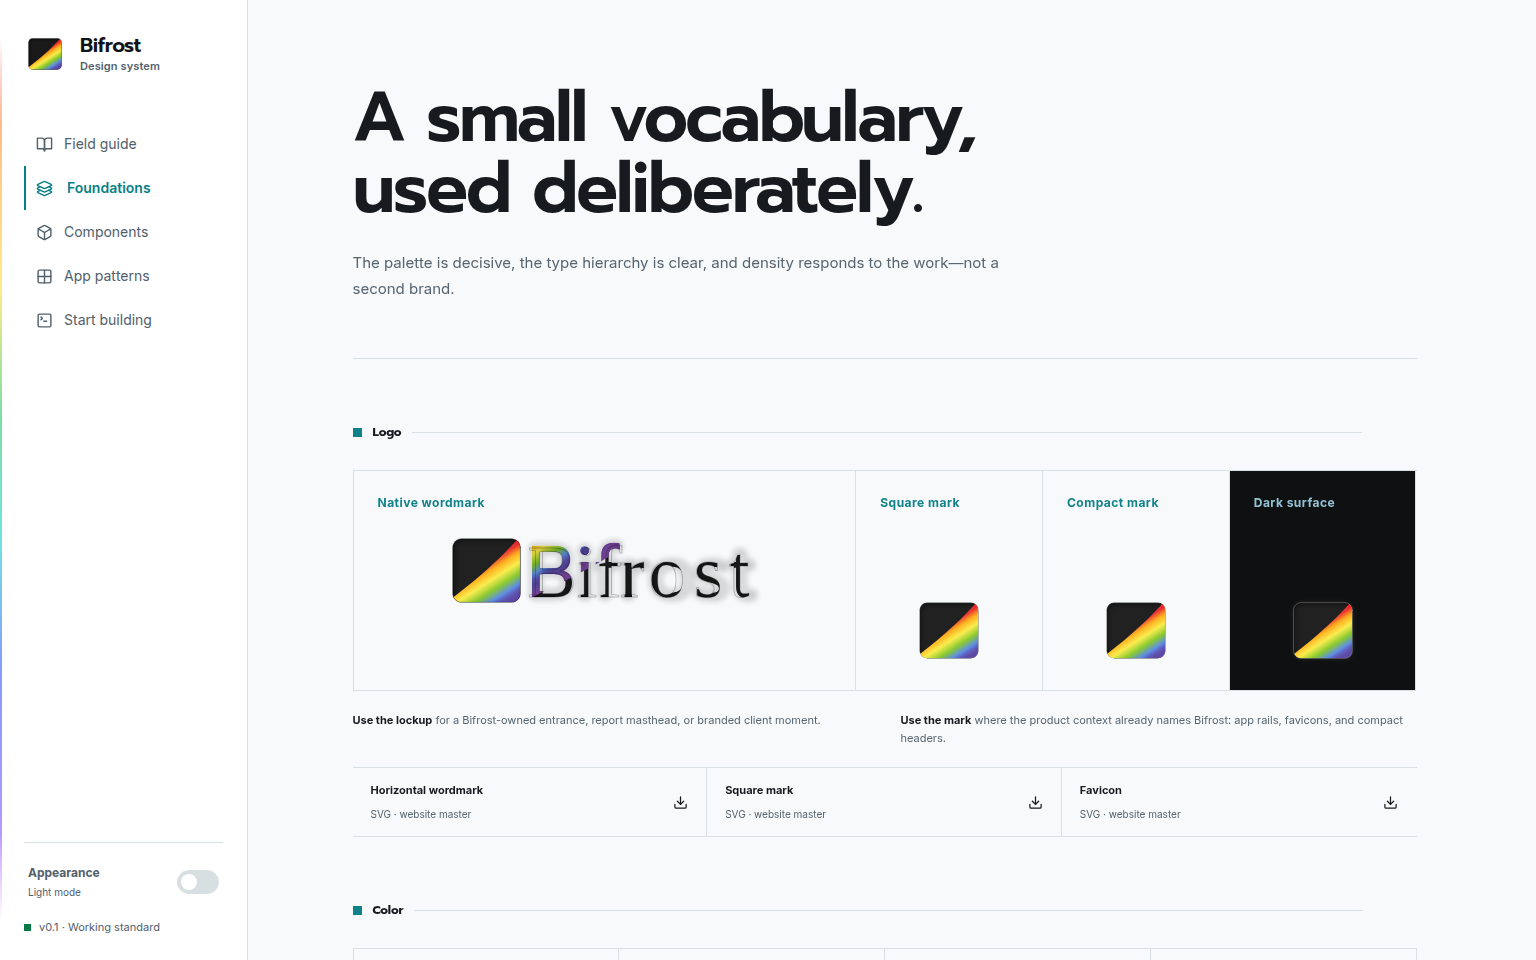
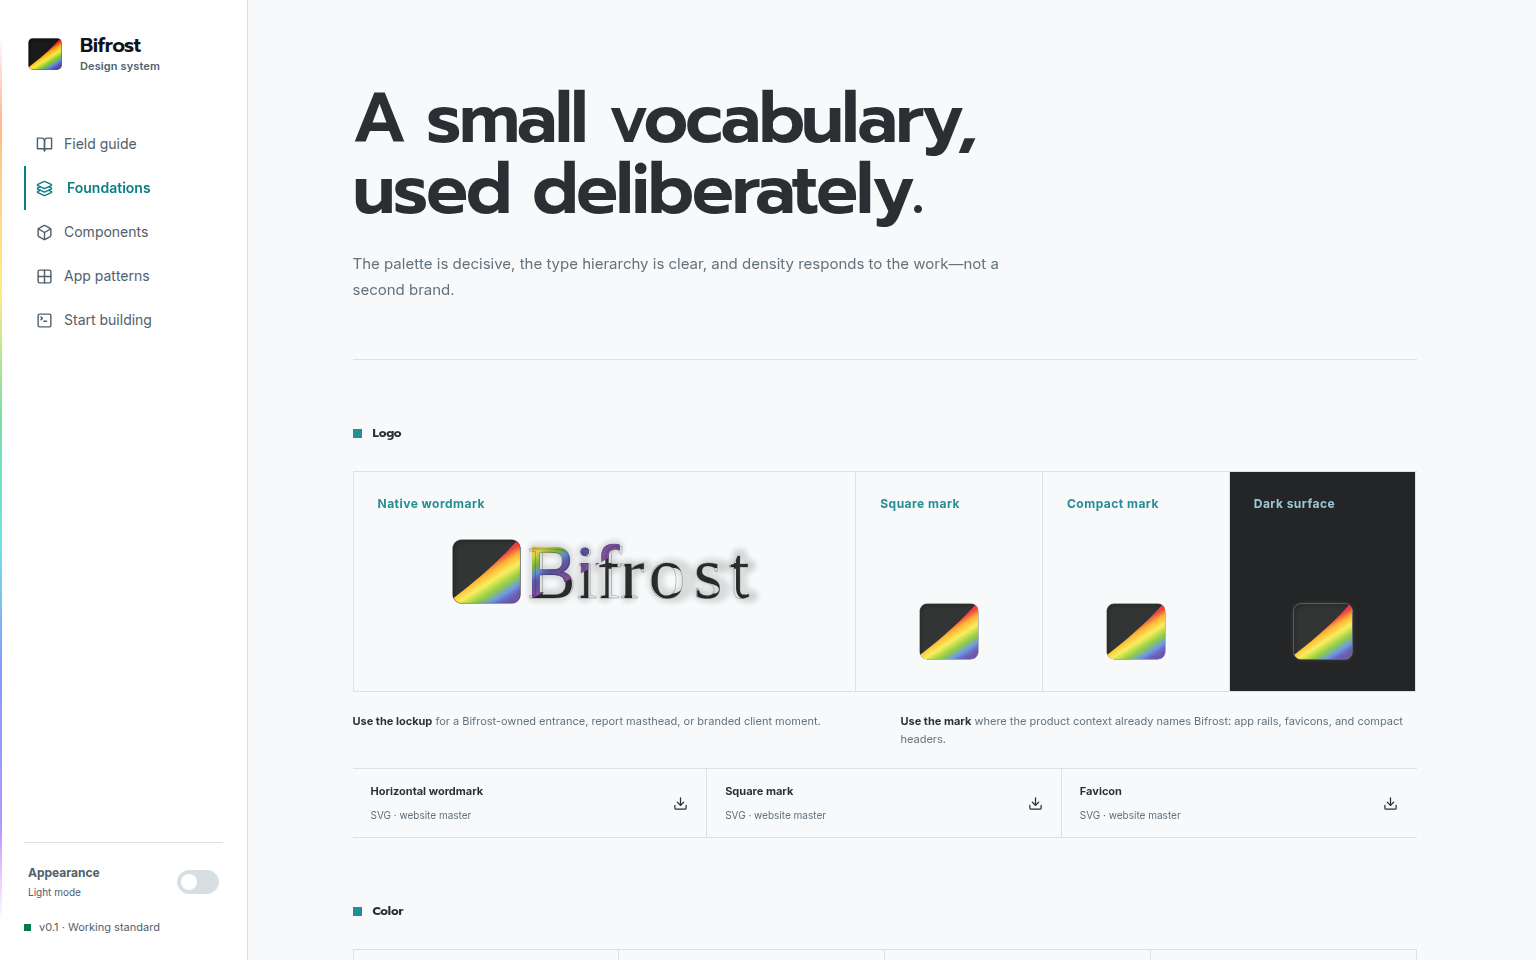
fix: harden dropdown overlays and wordmark themes

diff --git a/apps/bifrost-design-system/src/design-system/BfCombobox.tsx b/apps/bifrost-design-system/src/design-system/BfCombobox.tsx
@@ -1,12 +1,16 @@
 import {
   useEffect,
   useId,
+  useLayoutEffect,
   useMemo,
   useRef,
   useState,
+  type CSSProperties,
   type KeyboardEvent,
   type ReactNode,
+  type RefObject,
 } from "react";
+import { createPortal } from "react-dom";
 import { Check, ChevronDown, LoaderCircle, Search, X } from "lucide-react";
 import "./components.css";
 
@@ -85,6 +89,85 @@ function OptionContent({ option, selected }: { option: BfComboboxOption; selecte
   );
 }
 
+interface ViewportPopoverProps {
+  anchorRef: RefObject<HTMLElement>;
+  popoverRef: RefObject<HTMLDivElement>;
+  children: ReactNode;
+}
+
+interface PopoverPosition {
+  placement: "top" | "bottom";
+  left: number;
+  top?: number;
+  bottom?: number;
+  width: number;
+  maxHeight: number;
+}
+
+function ViewportPopover({ anchorRef, popoverRef, children }: ViewportPopoverProps) {
+  const [position, setPosition] = useState<PopoverPosition>();
+
+  useLayoutEffect(() => {
+    const positionPopover = () => {
+      const anchor = anchorRef.current;
+      if (!anchor) return;
+
+      const rect = anchor.getBoundingClientRect();
+      const viewportMargin = 8;
+      const gap = 6;
+      const width = Math.min(Math.max(rect.width, 260), window.innerWidth - viewportMargin * 2);
+      const left = Math.min(
+        Math.max(rect.left, viewportMargin),
+        Math.max(viewportMargin, window.innerWidth - width - viewportMargin),
+      );
+      const spaceBelow = window.innerHeight - rect.bottom - viewportMargin;
+      const spaceAbove = rect.top - viewportMargin;
+      const placement = spaceBelow >= 220 || spaceBelow >= spaceAbove ? "bottom" : "top";
+      const availableHeight = Math.max(112, (placement === "bottom" ? spaceBelow : spaceAbove) - gap);
+
+      setPosition({
+        placement,
+        left,
+        top: placement === "bottom" ? rect.bottom + gap : undefined,
+        bottom: placement === "top" ? window.innerHeight - rect.top + gap : undefined,
+        width,
+        maxHeight: availableHeight,
+      });
+    };
+
+    positionPopover();
+    window.addEventListener("resize", positionPopover);
+    window.addEventListener("scroll", positionPopover, true);
+    return () => {
+      window.removeEventListener("resize", positionPopover);
+      window.removeEventListener("scroll", positionPopover, true);
+    };
+  }, [anchorRef]);
+
+  if (typeof document === "undefined") return null;
+
+  const style = position ? ({
+    left: position.left,
+    top: position.top,
+    bottom: position.bottom,
+    width: position.width,
+    maxHeight: position.maxHeight,
+    "--bds-popover-max-height": `${position.maxHeight}px`,
+  } as CSSProperties) : undefined;
+
+  return createPortal(
+    <div
+      ref={popoverRef}
+      className="bds-combobox__popover"
+      data-placement={position?.placement}
+      style={style}
+    >
+      {children}
+    </div>,
+    document.body,
+  );
+}
+
 export function BfCombobox({
   options,
   value,
@@ -107,6 +190,8 @@ export function BfCombobox({
   const listboxId = `${id}-listbox`;
   const messageId = `${id}-message`;
   const wrapperRef = useRef<HTMLDivElement>(null);
+  const triggerRef = useRef<HTMLButtonElement>(null);
+  const popoverRef = useRef<HTMLDivElement>(null);
   const searchRef = useRef<HTMLInputElement>(null);
   const [open, setOpen] = useState(false);
   const [query, setQuery] = useState("");
@@ -117,7 +202,8 @@ export function BfCombobox({
   useEffect(() => {
     if (!open) return;
     const closeOnOutsidePress = (event: MouseEvent) => {
-      if (!wrapperRef.current?.contains(event.target as Node)) setOpen(false);
+      const target = event.target as Node;
+      if (!wrapperRef.current?.contains(target) && !popoverRef.current?.contains(target)) setOpen(false);
     };
     document.addEventListener("mousedown", closeOnOutsidePress);
     return () => document.removeEventListener("mousedown", closeOnOutsidePress);
@@ -163,6 +249,7 @@ export function BfCombobox({
       <label className="bds-field__label" id={`${id}-label`} htmlFor={id}>{label}</label>
       {name && <input type="hidden" name={name} value={value ?? ""} />}
       <button
+        ref={triggerRef}
         id={id}
         type="button"
         className="bds-combobox__trigger"
@@ -193,7 +280,7 @@ export function BfCombobox({
         <button type="button" aria-label={`Clear ${label}`} className="bds-combobox__clear" onClick={() => onValueChange("")}><X size={14} /></button>
       )}
       {open && (
-        <div className="bds-combobox__popover">
+        <ViewportPopover anchorRef={triggerRef} popoverRef={popoverRef}>
           <div className="bds-combobox__search">
             <Search size={15} aria-hidden="true" />
             <input
@@ -226,7 +313,7 @@ export function BfCombobox({
               ><OptionContent option={option} selected={option.value === value} /></button>
             )) : <p className="bds-combobox__empty">{emptyText}</p>}
           </div>
-        </div>
+        </ViewportPopover>
       )}
       <FieldMessage id={messageId} error={error} hint={hint} />
     </div>
@@ -257,6 +344,8 @@ export function BfMultiSelect({
   const listboxId = `${id}-listbox`;
   const messageId = `${id}-message`;
   const wrapperRef = useRef<HTMLDivElement>(null);
+  const triggerRef = useRef<HTMLDivElement>(null);
+  const popoverRef = useRef<HTMLDivElement>(null);
   const searchRef = useRef<HTMLInputElement>(null);
   const [open, setOpen] = useState(false);
   const [query, setQuery] = useState("");
@@ -270,7 +359,8 @@ export function BfMultiSelect({
   useEffect(() => {
     if (!open) return;
     const closeOnOutsidePress = (event: MouseEvent) => {
-      if (!wrapperRef.current?.contains(event.target as Node)) setOpen(false);
+      const target = event.target as Node;
+      if (!wrapperRef.current?.contains(target) && !popoverRef.current?.contains(target)) setOpen(false);
     };
     document.addEventListener("mousedown", closeOnOutsidePress);
     return () => document.removeEventListener("mousedown", closeOnOutsidePress);
@@ -321,6 +411,7 @@ export function BfMultiSelect({
       <label className="bds-field__label" id={`${id}-label`} htmlFor={id}>{label}</label>
       {name && value.map((selectedValue) => <input key={selectedValue} type="hidden" name={name} value={selectedValue} />)}
       <div
+        ref={triggerRef}
         id={id}
         className="bds-combobox__trigger"
         role="combobox"
@@ -362,7 +453,7 @@ export function BfMultiSelect({
         <ChevronDown size={15} aria-hidden="true" />
       </div>
       {open && (
-        <div className="bds-combobox__popover">
+        <ViewportPopover anchorRef={triggerRef} popoverRef={popoverRef}>
           <div className="bds-combobox__search">
             <Search size={15} aria-hidden="true" />
             <input
@@ -405,7 +496,7 @@ export function BfMultiSelect({
               );
             }) : <p className="bds-combobox__empty">{emptyText}</p>}
           </div>
-        </div>
+        </ViewportPopover>
       )}
       <FieldMessage id={messageId} error={error} hint={hint} />
     </div>

diff --git a/apps/bifrost-design-system/src/design-system/components.css b/apps/bifrost-design-system/src/design-system/components.css
@@ -104,10 +104,10 @@
 .bds-combobox__clear { display: inline-grid; place-items: center; width: 24px; height: 24px; border-radius: var(--bf-radius-control); cursor: pointer; }
 .bds-combobox__clear:hover { background: var(--bf-cool); color: var(--bf-ink); }
 .bds-combobox > .bds-combobox__clear { position: absolute; top: 27px; right: 34px; z-index: 1; padding: 0; border: 0; background: transparent; color: var(--bf-muted); }
-.bds-combobox__popover { position: absolute; top: calc(100% + 6px); left: 0; z-index: 80; width: max(100%, 260px); overflow: hidden; border: 1px solid var(--bf-line); border-radius: var(--bf-radius-surface); background: var(--bf-paper); box-shadow: var(--bf-shadow-float); animation: bds-component-in var(--bf-motion-disclosure) var(--bf-ease-out) both; }
+.bds-combobox__popover { position: fixed; z-index: 1000; display: flex; flex-direction: column; min-width: 0; max-width: calc(100vw - 16px); overflow: hidden; border: 1px solid var(--bf-line); border-radius: var(--bf-radius-surface); background: var(--bf-paper); box-shadow: var(--bf-shadow-float); animation: bds-component-in var(--bf-motion-disclosure) var(--bf-ease-out) both; }
 .bds-combobox__search { display: grid; grid-template-columns: 20px minmax(0, 1fr); align-items: center; gap: 7px; min-height: 43px; padding: 0 11px; border-bottom: 1px solid var(--bf-line); color: var(--bf-muted); }
 .bds-combobox__search input { min-height: 40px; padding: 0; border: 0; outline: 0; background: transparent; color: var(--bf-ink); }
-.bds-combobox__list { max-height: min(280px, 42vh); overflow-y: auto; overscroll-behavior: contain; padding: 5px; }
+.bds-combobox__list { min-height: 0; max-height: min(280px, calc(var(--bds-popover-max-height, 336px) - 44px)); overflow-y: auto; overscroll-behavior: contain; padding: 5px; scrollbar-color: var(--bf-line) transparent; }
 .bds-combobox__list [role="option"] { display: grid; grid-template-columns: 20px auto minmax(0, 1fr); align-items: center; gap: 8px; width: 100%; min-height: 42px; padding: 7px 8px; border: 0; border-radius: var(--bf-radius-control); background: transparent; color: var(--bf-ink); cursor: pointer; text-align: left; }
 .bds-combobox__list [role="option"]:hover, .bds-combobox__list [role="option"][data-active] { background: var(--bf-cool); }
 .bds-combobox__list [role="option"][aria-selected="true"] { color: var(--bf-primary); }

diff --git a/apps/bifrost-design-system/src/pages/FoundationsPage.tsx b/apps/bifrost-design-system/src/pages/FoundationsPage.tsx
@@ -1,4 +1,5 @@
 import { Download } from "lucide-react";
+import { useBifrostContext } from "bifrost";
 import { useOutletContext } from "react-router-dom";
 import type { CatalogContext } from "../components/AppShell";
 import { DensityControl } from "../components/DensityControl";
@@ -16,6 +17,7 @@ const colors = [
 
 export function FoundationsPage() {
   const { density, setDensity } = useOutletContext<CatalogContext>();
+  const { theme } = useBifrostContext();
 
   return (
     <div className="page">
@@ -25,8 +27,11 @@ export function FoundationsPage() {
         <SectionMarker title="Logo" />
         <div className="logo-foundation">
           <div className="logo-lockup">
-            <span className="specimen-label">Native wordmark</span>
-            <img src="/brand/logo-wordmark.svg" alt="Bifrost" />
+            <span className="specimen-label">Adaptive native wordmark</span>
+            <span className={`logo-wordmark logo-wordmark--${theme}`}>
+              <img src="/brand/logo-wordmark.svg" alt="Bifrost" />
+              <img className="logo-wordmark__dark-neutral" src="/brand/logo-wordmark.svg" alt="" aria-hidden="true" />
+            </span>
           </div>
           <div className="logo-mark logo-mark--light">
             <span className="specimen-label">Square mark</span>
@@ -44,6 +49,7 @@ export function FoundationsPage() {
         <div className="logo-guidance">
           <p><strong>Use the lockup</strong> for a Bifrost-owned entrance, report masthead, or branded client moment.</p>
           <p><strong>Use the mark</strong> where the product context already names Bifrost: app rails, favicons, and compact headers.</p>
+          <p><strong>On dark surfaces,</strong> keep the bridge in the mark and render the full name as one neutral word. Never invert the rainbow.</p>
         </div>
         <div className="logo-assets" aria-label="Download Bifrost logo SVGs">
           <a href="/brand/logo-wordmark.svg" download><span>Horizontal wordmark</span><small>SVG · website master</small><Download size={15} /></a>

diff --git a/apps/bifrost-design-system/src/design-system/BfCombobox.test.tsx b/apps/bifrost-design-system/src/design-system/BfCombobox.test.tsx
@@ -1,7 +1,7 @@
 import { render, screen, within } from "@testing-library/react";
 import userEvent from "@testing-library/user-event";
 import { useState } from "react";
-import { describe, expect, it } from "vitest";
+import { describe, expect, it, vi } from "vitest";
 import { BfCombobox, BfMultiSelect, type BfComboboxOption } from "./BfCombobox";
 
 const options: BfComboboxOption[] = [
@@ -68,5 +68,29 @@ describe("BfCombobox", () => {
     expect(trigger).toHaveTextContent("Monthly");
     expect(trigger).toHaveTextContent("Quarterly");
     expect(trigger).not.toHaveTextContent("Annual");
+  });
+
+  it("portals and flips the list above a trigger near the viewport edge", async () => {
+    const user = userEvent.setup();
+    render(<MultiHarness />);
+    const trigger = screen.getByRole("combobox", { name: "Cadences" });
+    vi.spyOn(trigger, "getBoundingClientRect").mockReturnValue({
+      bottom: 790,
+      height: 40,
+      left: 70,
+      right: 370,
+      top: 750,
+      width: 300,
+      x: 70,
+      y: 750,
+      toJSON: () => ({}),
+    });
+
+    await user.click(trigger);
+    const listbox = screen.getByRole("listbox", { name: "Cadences" });
+    const popover = listbox.closest(".bds-combobox__popover");
+    expect(popover).toHaveAttribute("data-placement", "top");
+    expect(popover?.parentElement).toBe(document.body);
+    expect(popover).toHaveStyle({ bottom: "24px", maxHeight: "736px" });
   });
 });

diff --git a/apps/bifrost-design-system/src/index.css b/apps/bifrost-design-system/src/index.css
@@ -165,7 +165,10 @@ a { color: inherit; text-decoration: none; }
 .logo-foundation .specimen-label { margin: 0; }
 .logo-foundation > .logo-lockup { justify-content: flex-start; }
 .logo-lockup .specimen-label { margin-bottom: 20px; }
-.logo-lockup img { align-self: center; width: min(320px, 82%); height: auto; }
+.logo-wordmark { position: relative; display: block; align-self: center; width: min(320px, 82%); }
+.logo-wordmark img { display: block; width: 100%; height: auto; }
+.logo-wordmark__dark-neutral { position: absolute; inset: 0; display: none !important; clip-path: inset(0 0 0 30%); filter: invert(1) grayscale(1) brightness(1.65) contrast(1.05); }
+.logo-wordmark--dark .logo-wordmark__dark-neutral { display: block !important; }
 .logo-mark { align-items: center; }
 .logo-mark .specimen-label { align-self: flex-start; }
 .logo-mark--dark { background: var(--bf-deep); }

diff --git a/DESIGN.md b/DESIGN.md
@@ -9,6 +9,7 @@ The Bifrost Design System is the operating layer for Bifrost software: dark-firs
 Evidence was captured from `gobifrost/website` at `afa9e9b4842304c54ff1b5d79d010017f1da23cb`.
 
 - Native marks are copied without reconstruction from `public/logo-square.svg`, `public/logo-lightmode.svg`, and `public/favicon.svg`.
+- The full lockup is surface-aware: light surfaces retain the website master; dark surfaces preserve the rainbow square while treating the complete wordmark as one light neutral. Never invert or recolor the bridge spectrum.
 - The default canvas is `#08090b`, the primary surface is `#0a0c0f`, and decisive action cyan is `#2fd4d4`.
 - The bridge spectrum runs red → orange → yellow → green → cyan → blue → purple → magenta. It appears as a rare, thin seam, localized route, or progress signal—not a decorative panel fill or viewport frame.
 - Inter is the interface workhorse, Prompt is reserved for brand/display moments, and JetBrains Mono carries code and measurements.
